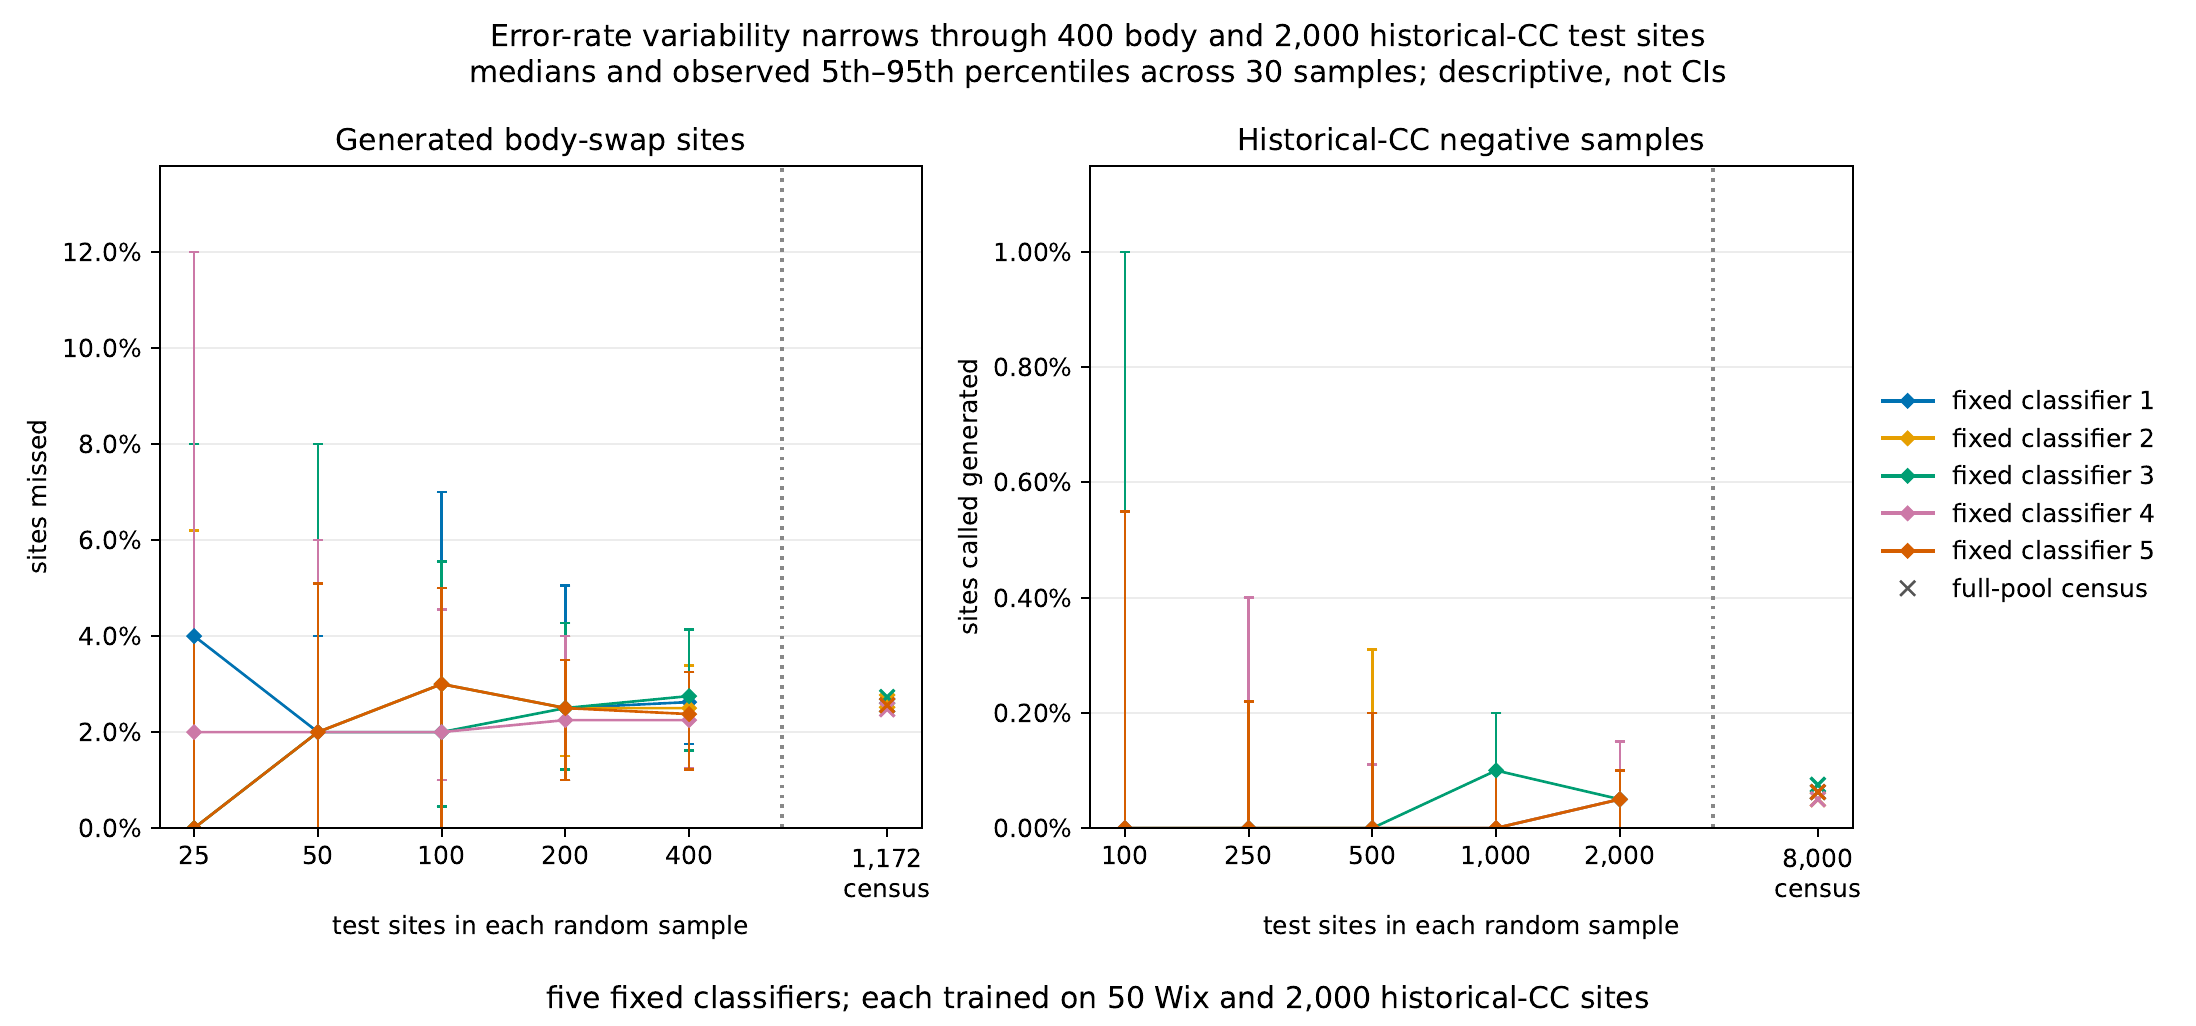
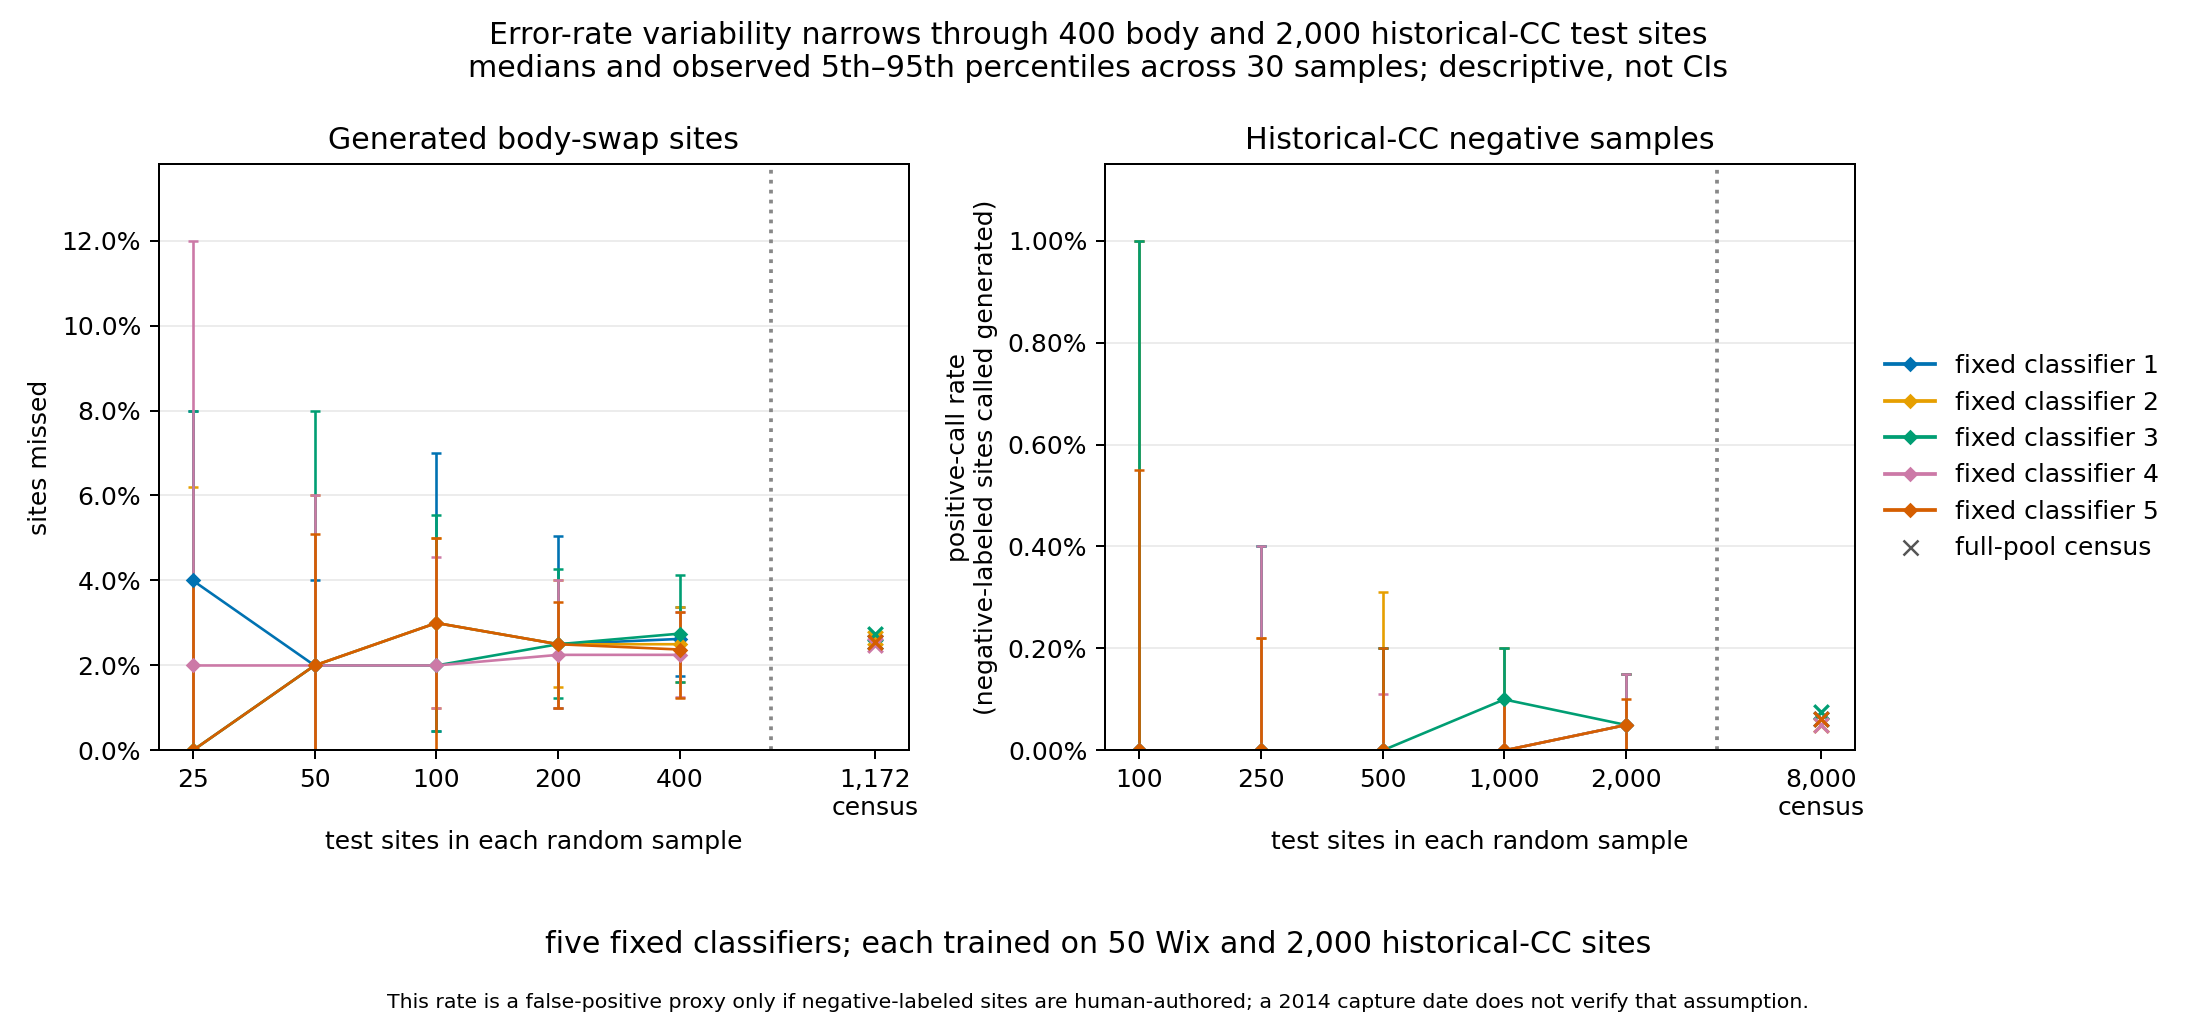
Show reviewed test-size plot in Tuesday slides

diff --git a/style.css b/style.css
@@ -98,6 +98,27 @@
   object-fit: contain;
 }
 
+.slidev-layout .plot-caption {
+  font-size: 3rem;
+  line-height: 1.12;
+  text-align: center;
+}
+
+.slidev-layout .test-size-panel {
+  display: block;
+  height: 21rem;
+  max-width: 96%;
+  width: 96%;
+  margin: 0 auto;
+  overflow: hidden;
+}
+
+.slidev-layout .plot-caveat {
+  font-size: 3rem;
+  line-height: 1.12;
+  text-align: center;
+}
+
 .slidev-layout .two-stats {
   display: grid;
   grid-template-columns: 1fr 1fr;

diff --git a/outline.md b/outline.md
@@ -2,18 +2,18 @@
 
 (authored by agents unless marked 🧑)
 
-Public GitHub Pages build: `https://sichanghe.github.io/DeGenTWeb_pre20260929/`. The 15 slides follow the active `origin/master` paper revision (September 28, 2026): all six active figures appear in manuscript order, with no figures from deleted or hidden content. White background, large body and source text, small author/page footer. The three original-resolution article screenshots embedded in the first prior deck's slide 5 were extracted individually to `public/prior/news-*.jpg`; these are not captures of rendered Google Slides pages.
+Public GitHub Pages build: `https://sichanghe.github.io/DeGenTWeb_pre20260929/`. The 17 slides follow the active `origin/master` paper revision (September 28, 2026): all six active figures appear in manuscript order. One separately requested, previously removed test-size study follows the training/transfer plot, split into two slide-sized panel views for legibility; it uses a different fixed-classifier cohort and must not be read as the same experiment. White background, large body and source text, small author/page footer. The three original-resolution article screenshots embedded in the first prior deck's slide 5 were extracted individually to `public/prior/news-*.jpg`; these are not captures of rendered Google Slides pages.
 
 Core: estimate the positive-call share of *qualifying observed sites* whose extractable prose appears MGT-dominant (MGT = machine-generated text); characterize those sites. This is not a census of the whole web or verified ground truth.
 
 1. Introduction: the full paper title; the three original article screenshots on one slide; distinguish news claims from measured evidence.
 2. Scope: article-heavy qualifying subdomains, extractable prose, site-level decisions; two nonrepresentative sampling frames.
 3. Detection: page noise, six-stage pipeline, at least 15 usable pages per site.
-4. Evaluation and limits: the manuscript reports held-out generated-site tests and CC2014 proxy-negative results, then the training/transfer, baseline score-distribution, and Pangram-versus-Binoculars figures. Old positive-call shares cannot be calibrated directly using the newer evaluation because classifier lineage is not established.
+4. Evaluation and limits: the manuscript reports held-out generated-site tests and CC2014 proxy-negative results, then the training/transfer, baseline score-distribution, and Pangram-versus-Binoculars figures. Separately requested archival test-size results use five classifiers trained on 50 Wix and 2,000 historical-CC sites, with 30 samples per test size; observed fifth–ninety-fifth percentiles are descriptive, not confidence intervals. Historical-CC negative labels do not prove human authorship. Old positive-call shares cannot be calibrated directly using the newer evaluation because classifier lineage is not established.
 5. Findings: 409,805 retained Common Crawl subdomains, 94,908 qualifying; 6.0% positive calls. WikiHow-style Bing frame: 18,169 qualifying and 15.4% positive calls. The paper's transition example follows these two frames. These are not whole-web prevalence estimates.
 6. Characteristics: draft category comparison on selected equal-sized groups; this does not establish motives or general web-wide composition. Linked-site material and other omitted figures are not slides.
 7. Takeaway: estimates conditional on the observed, qualifying cohorts; excluded sites remain unknown.
 
-Sources: `dw-learning-curve-paper` branch `origin/master` at `0fa2603` defines the current title, sections, and exactly six visible figures; the local `main` checkout is 31 commits behind and was not used for figure selection. The three prior Google Slides appear in `manager_mail/85c5dff58359-2184.txt:9-11`; their news article JPGs are original embedded images extracted from the first deck's PDF, not screenshots of its slides. All six active figure PNGs were rendered directly from that paper revision's PDFs. The footer adapts `CSci656/presentation/components/Footer.vue`. Numeric claims remain provisional; central calibration of older wild shares is unavailable.
+Sources: `dw-learning-curve-paper` branch `origin/master` at `0fa2603` defines the current title, sections, and exactly six visible figures; the local `main` checkout is 31 commits behind and was not used for figure selection. The extra test-size figure comes from `/hdd1/sichanghe/DeGenTWeb_slow/data/classify/full_corpus_svm_split_size_sensitivity_reviewed_v2_20260916/fixed_training_vary_test_errors.pdf`; DW's independent reviewer checked this selection after Human Source2256 requested the old plot. Its sibling `split_size_sensitivity_identity.json` and `artifact_manifest.json` document input and output hashes. The three prior Google Slides appear in `manager_mail/85c5dff58359-2184.txt:9-11`; their news article JPGs are original embedded images extracted from the first deck's PDF, not screenshots of its slides. All six active figure PNGs were rendered directly from that paper revision's PDFs. The footer adapts `CSci656/presentation/components/Footer.vue`. Numeric claims remain provisional; central calibration of older wild shares is unavailable.
 
 ChatGPT review/revise pass (September 28): the browser reviewer recommended “Make the estimand explicit before showing the 6.0% / 15.4% numbers,” “Separate ‘measurement result’ from ‘validation status’ more visually,” and “Soften the category interpretation” (`/tmp/tuesday-slidev-final-review-medium.txt`). Slides 7–10 now make the denominators, uncalibrated classifier outputs, and selected characterization groups explicit.

diff --git a/README.md b/README.md
@@ -2,7 +2,7 @@
 
 (authored by agents unless marked 🧑)
 
-Slidev presentation and a separate [`outline.md`](outline.md). Fifteen slides follow the active paper revision and contain all six of its active figures; no hidden or deleted paper plots appear. The 6.0% and 15.4% values are historical classifier calls among qualifying selected subdomains, not whole-web prevalence or validated ground truth.
+Slidev presentation and a separate [`outline.md`](outline.md). Seventeen slides follow the active paper revision and contain all six of its active figures. One extra, independently reviewed historical test-size plot was specifically requested; its two panels occupy separate slides for readability and use a different cohort from the paper's training-size plot. The 6.0% and 15.4% values are historical classifier calls among qualifying selected subdomains, not whole-web prevalence or validated ground truth.
 
 Run `npm ci && npm run dev` locally. GitHub Pages builds with `npm run build -- --base /DeGenTWeb_pre20260929/ --router-mode hash`. Source figures stay as PNGs in `public/prior/` and `public/paper/` so slides can reuse them.
 
@@ -12,4 +12,4 @@ The earlier presentations are:
 - [Talk 2](https://docs.google.com/presentation/d/1PHiPwkIvFBgtEKWSVPwUkWSygKkjqfO-lWImE-s5Nyc/edit)
 - [Talk 3](https://docs.google.com/presentation/d/1ZGh9lTAzUyrYv2m6tjD6l5HLP-c7y94uY0D9Ug8N1Qw/edit)
 
-The three `public/prior/news-*.jpg` article images were extracted directly from embedded images on prior talk 1, slide 5, not captured from its rendered slides. The source for paper PNGs is the draft paper's identically named PDF in `dw-learning-curve-paper/figures/dw1/`, except `degentweb_pipeline.png`, which comes from the paper root. Unused image resources do not appear in the talk.
+The three `public/prior/news-*.jpg` article images were extracted directly from embedded images on prior talk 1, slide 5, not captured from its rendered slides. The source for active paper PNGs is the draft paper's identically named PDF in `dw-learning-curve-paper/figures/dw1/`, except `degentweb_pipeline.png`, which comes from the paper root. The additional test-size PNG comes from the reviewed historical artifact identified in `outline.md`. Unused image resources do not appear in the talk.

diff --git a/slides.md b/slides.md
@@ -72,6 +72,26 @@ class: text-center
 
 ---
 
+<div class="plot-caption">Generated test sites</div>
+
+<svg class="test-size-panel" viewBox="0 105 1030 800" role="img" aria-label="Test-size study: five fixed classifiers' missed generated body-swap sites versus 25 to 400 test sites, with observed fifth-to-ninety-fifth percentile ranges over 30 samples; separate training cohort from previous slide"><defs><clipPath id="body-plot-clip"><rect x="0" y="105" width="1030" height="800"/></clipPath></defs><image href="/paper/fixed_training_vary_test_errors.png" width="2196" height="1026" clip-path="url(#body-plot-clip)"/><rect x="940" y="105" width="90" height="660" fill="white"/></svg>
+
+<div class="plot-caveat">Different training cohort</div>
+
+<Footer />
+
+---
+
+<div class="plot-caption">Historical-CC test sites</div>
+
+<svg class="test-size-panel" viewBox="1010 105 1186 800" role="img" aria-label="Test-size study: positive-call rate among historically negative-labeled Common Crawl sites versus 100 to 2000 test sites, with observed fifth-to-ninety-fifth percentile ranges over 30 samples; negative-labeled does not verify human authorship"><defs><clipPath id="cc-plot-clip"><rect x="1010" y="105" width="1186" height="800"/></clipPath></defs><image href="/paper/fixed_training_vary_test_errors.png" width="2196" height="1026" clip-path="url(#cc-plot-clip)"/></svg>
+
+<div class="plot-caveat">2014 negative label ≠ verified human</div>
+
+<Footer />
+
+---
+
 <img class="paper-plot" src="/paper/cdf_baseline_svm_scores.png" alt="Paper figure: baseline site score distributions and overlap"/>
 
 <Footer />
